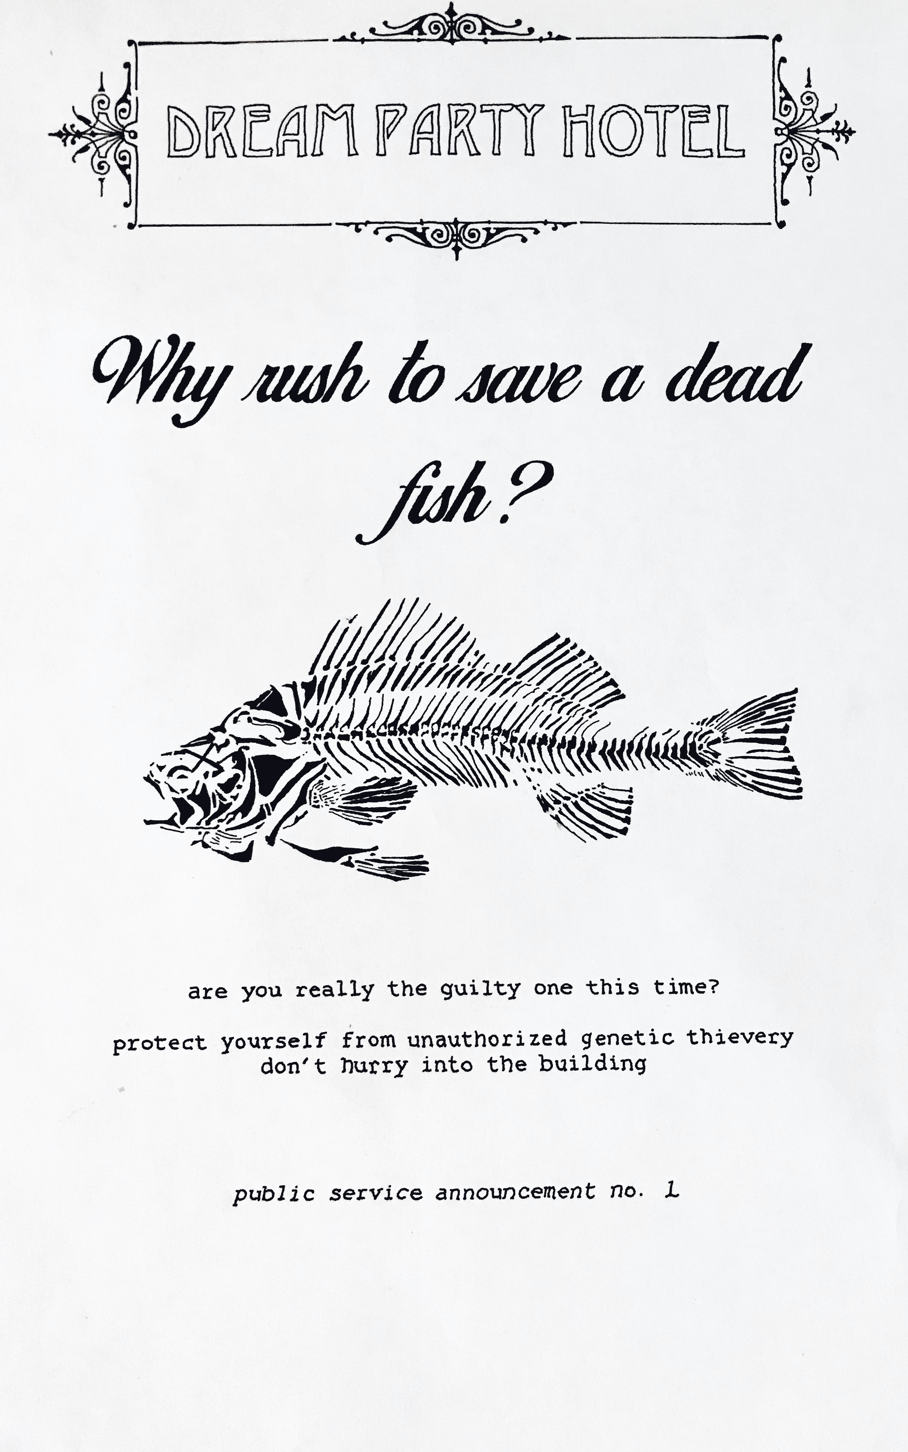
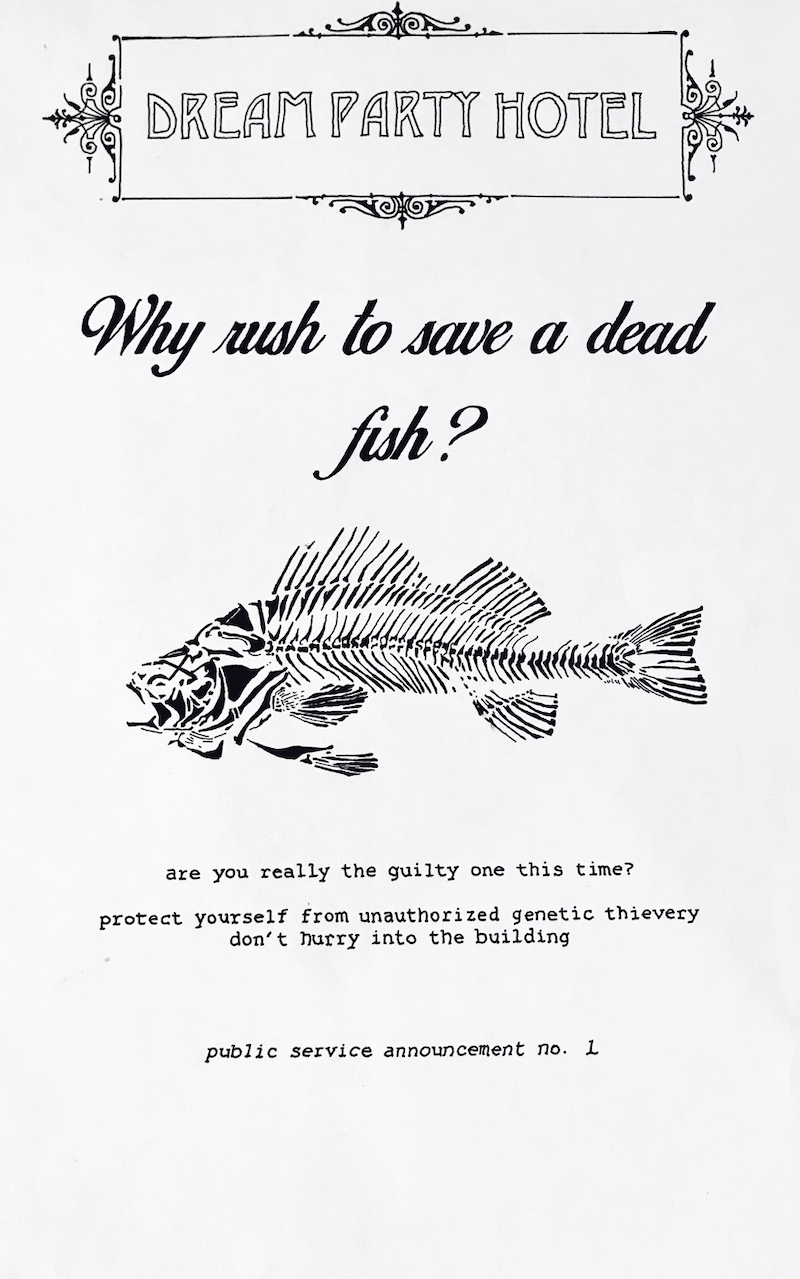
reduce file size;

diff --git a/src/js/data/issue-01.js b/src/js/data/issue-01.js
@@ -328,7 +328,7 @@ module.exports = {
           "secondTemplate":{
             "style":"split",
             "contentType":"imgText",
-            "img":"secondPrimary.png",
+            "img":"secondPrimary.jpg",
             "text":"This piece is a web article with surreal pictures. In it, I describe my dreams and intertwine the article with explanations about how dreams contribute to learning and why we experience them.<br/><br/>With my photographs, I try to place drawing within real-world settings in order to capture the memory/concept-mashing nature of dreams.<br/><br/>The web article also has a cinemagraph background. Our neighbors had a party and got confetti all over our apartment. I found this scenery surreal and relevant to my piece; an ambient backdrop that invokes the feeling of color and randomness strewn upon a grey and monotonous foundation. I’d like to think our dreams are that fluttery surreal color that sprinkle into our dull lives."
           }
         },

diff --git a/src/js/ZineControls.js b/src/js/ZineControls.js
@@ -3,7 +3,6 @@ import { Link } from 'react-router-dom';
 
 class ZineControls extends Component {
   render() {
-    console.log(this.props.isNextDisabled);
     return (
       <div className={ this.props.className }>
         <Link className={ this.props.isPrevDisabled ? "zine-ctrl-link disabled" : 'zine-ctrl-link' } to={ this.props.isPrevDisabled ? "#" : this.props.linkToPrev }>

diff --git a/src/js/ZineSubmission.js b/src/js/ZineSubmission.js
@@ -92,7 +92,7 @@ class ZineSubmission extends Component {
         </div>
       );
     } else {
-      // console.log('[renderSecondary] style: ', secondaryTemplate.style);
+      console.log('[renderSecondary] other style: ', secondaryTemplate.style);
     }
   }
 

diff --git a/src/js/ZineNav.js b/src/js/ZineNav.js
@@ -14,7 +14,6 @@ class ZineNav extends Component {
     e.preventDefault();
     if (e.keyCode === 39) {
       // right arrow
-      console.log(this);
       this.props.handleIncrementPage();
     } 
     
